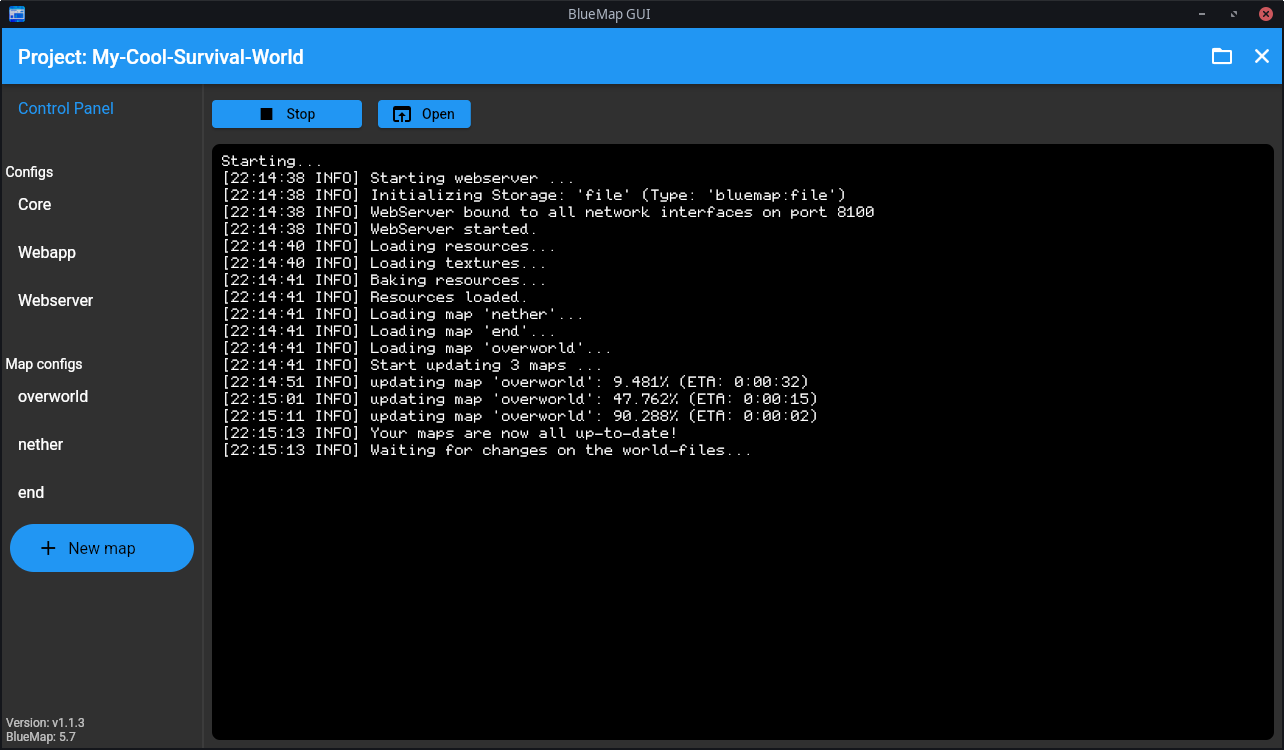
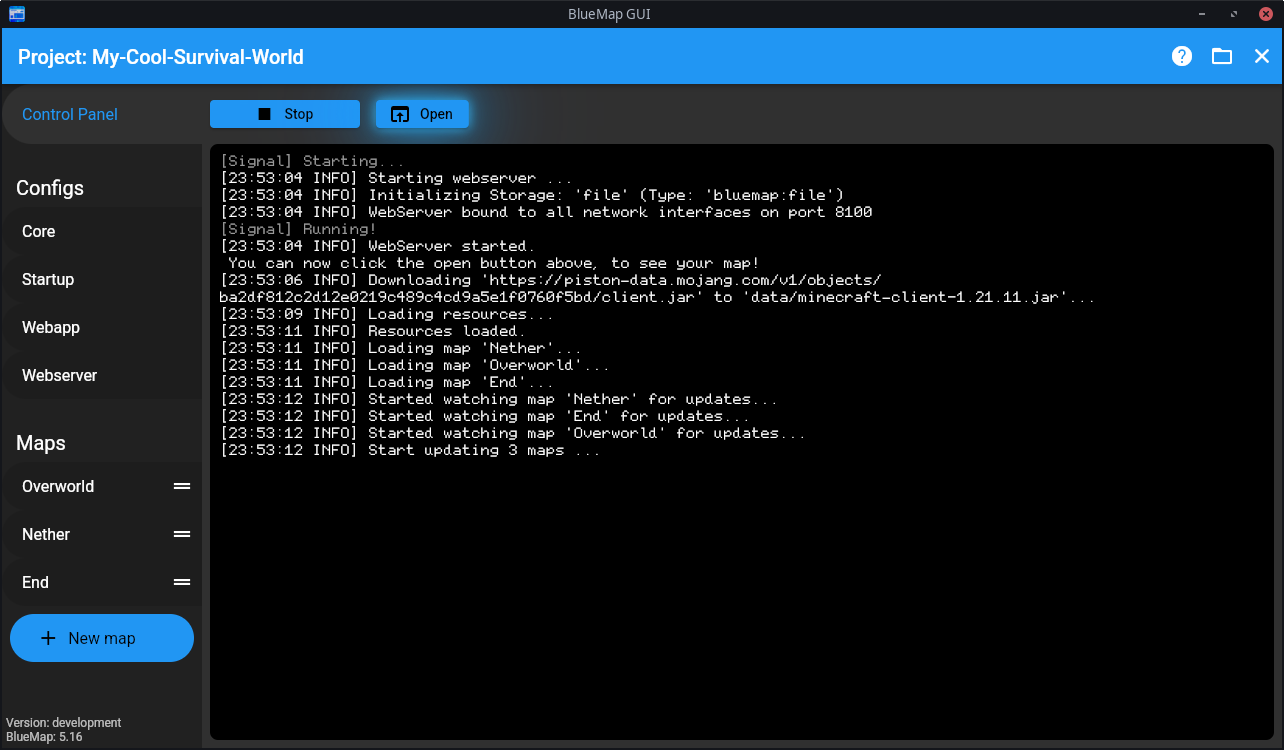
Update screenshots for v2.0
Closes #116

diff --git a/README.md b/README.md
@@ -129,4 +129,10 @@ You're welcome to ping me, @TechnicJelle.
 
 ![screenshot](.github/readme_assets/settings_screen.png)
 
-![screenshot](.github/readme_assets/map_config.png)
+![screenshot](.github/readme_assets/config_core.png)
+
+![screenshot](.github/readme_assets/config_core_advanced.png)
+
+![screenshot](.github/readme_assets/config_map_overworld.png)
+
+![screenshot](.github/readme_assets/config_map_overworld_advanced.png)
